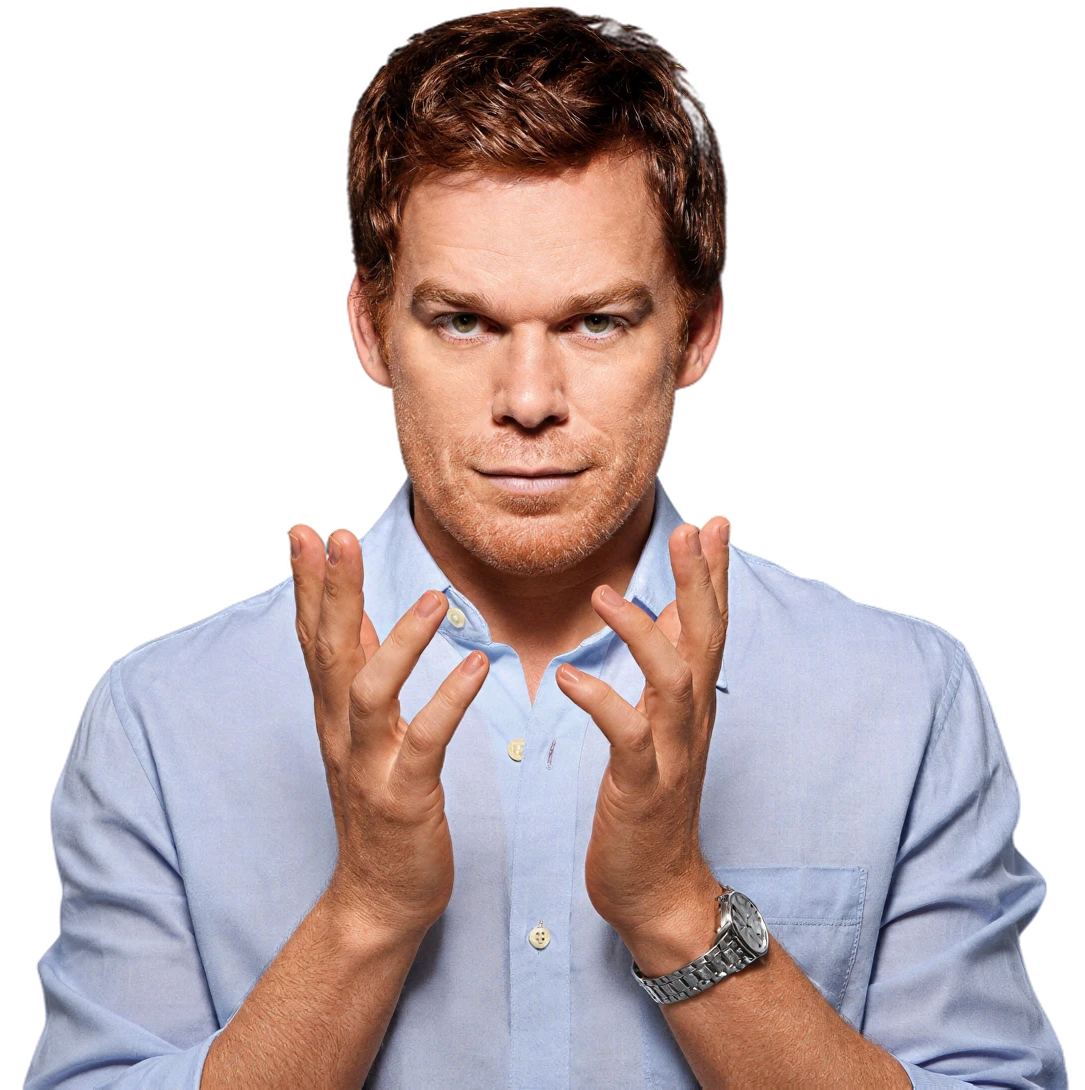
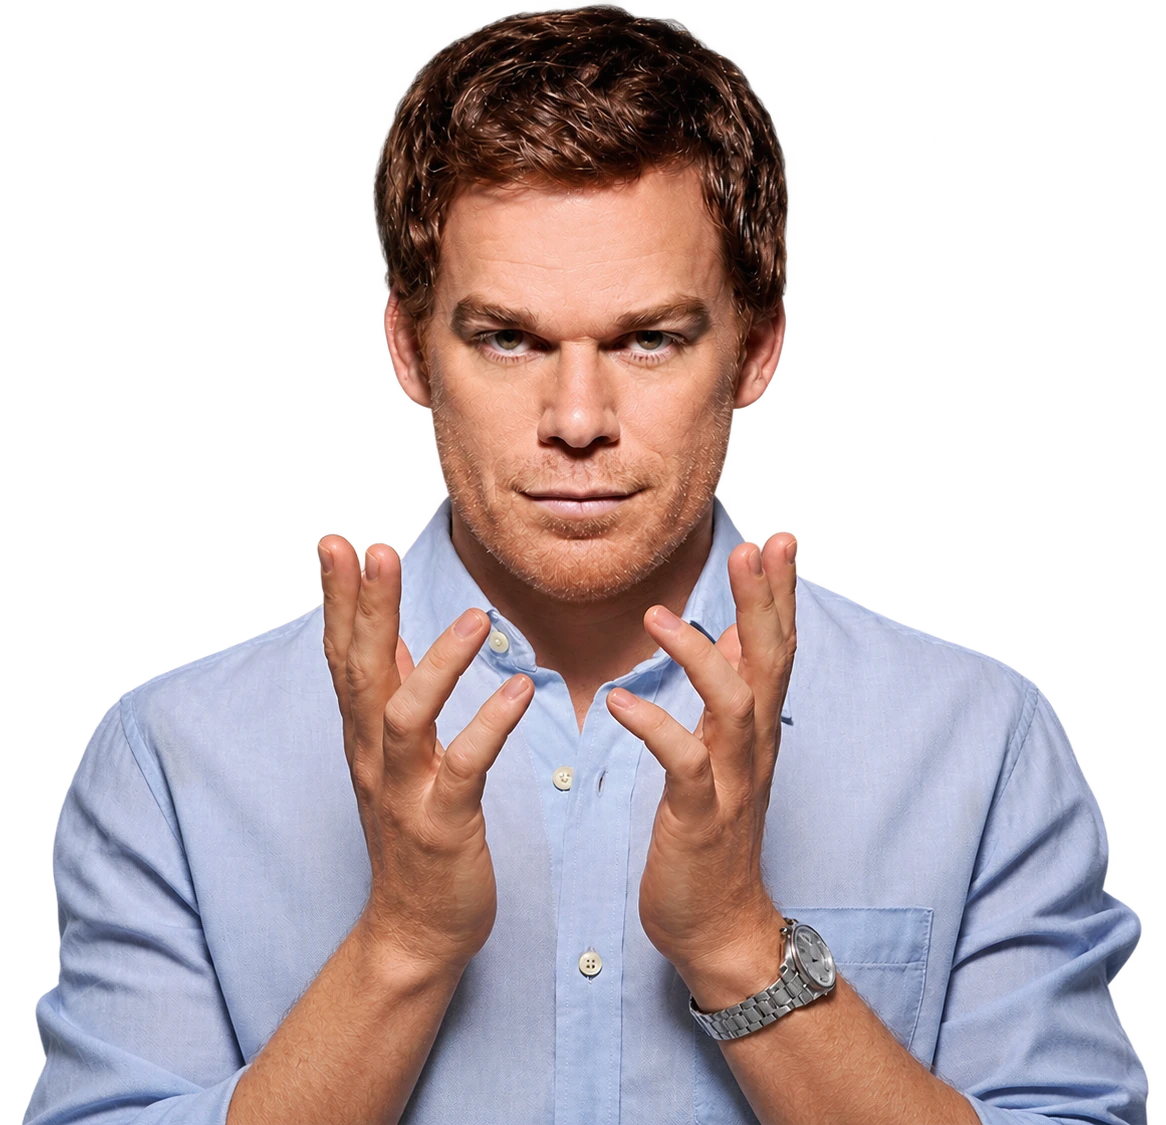
feat(hero): new Dexter cutout and background, fix pale halo on hair
- Swap hero figure and background images
- Color grade layer no longer uses multiply: inside the transformed
  figure it painted light tones onto semi-transparent hair edges
- Match figure aspect ratio to the new image (1166x1125)

diff --git a/assets/css/style.css b/assets/css/style.css
@@ -1828,9 +1828,9 @@ html, body {
   z-index: 2;
   left: 50%;
   bottom: 0;
-  margin-left: calc(var(--fig-h) * -0.4977); /* half its width: stays centered even when wider than the screen */
+  margin-left: calc(var(--fig-h) * -0.5182); /* half its width: stays centered even when wider than the screen */
   height: var(--fig-h);
-  aspect-ratio: 1085 / 1090;
+  aspect-ratio: 1166 / 1125;
   will-change: transform, opacity;
 }
 
@@ -1849,10 +1849,11 @@ html, body {
   pointer-events: none;
   -webkit-mask: url('../img/hero/dexter.webp') center / 100% 100% no-repeat;
   mask: url('../img/hero/dexter.webp') center / 100% 100% no-repeat;
-  mix-blend-mode: multiply;
+  /* Normal blending on purpose: the figure is its own stacking context (transform), so "multiply"
+     would paint these light colors onto the semi-transparent hair edges as a pale halo */
   background:
     linear-gradient(180deg, transparent 0%, rgba(0, 0, 0, 0.1) 40%, rgba(0, 0, 0, 0.35) 100%),
-    linear-gradient(90deg, rgba(150, 170, 200, 1) 0%, rgba(215, 215, 220, 1) 45%, rgba(225, 195, 195, 1) 70%, rgba(195, 135, 135, 1) 100%);
+    linear-gradient(90deg, rgba(10, 30, 70, 0.4) 0%, rgba(10, 10, 15, 0.15) 45%, rgba(40, 0, 0, 0.15) 70%, rgba(70, 0, 0, 0.35) 100%);
 }
 
 /* Light, slowly flickering film grain over everything */

diff --git a/index.html b/index.html
@@ -123,7 +123,7 @@
               <span class="hero-word hero-word--front">Kills</span>
             </h1>
             <div class="hero-figure" aria-hidden="true">
-              <img class="hero-dexter" src="assets/img/hero/dexter.webp" alt="" width="1085" height="1090" decoding="async" fetchpriority="high" />
+              <img class="hero-dexter" src="assets/img/hero/dexter.webp" alt="" width="1166" height="1125" decoding="async" fetchpriority="high" />
             </div>
             <div class="hero-grain" aria-hidden="true"></div>
           </div>
